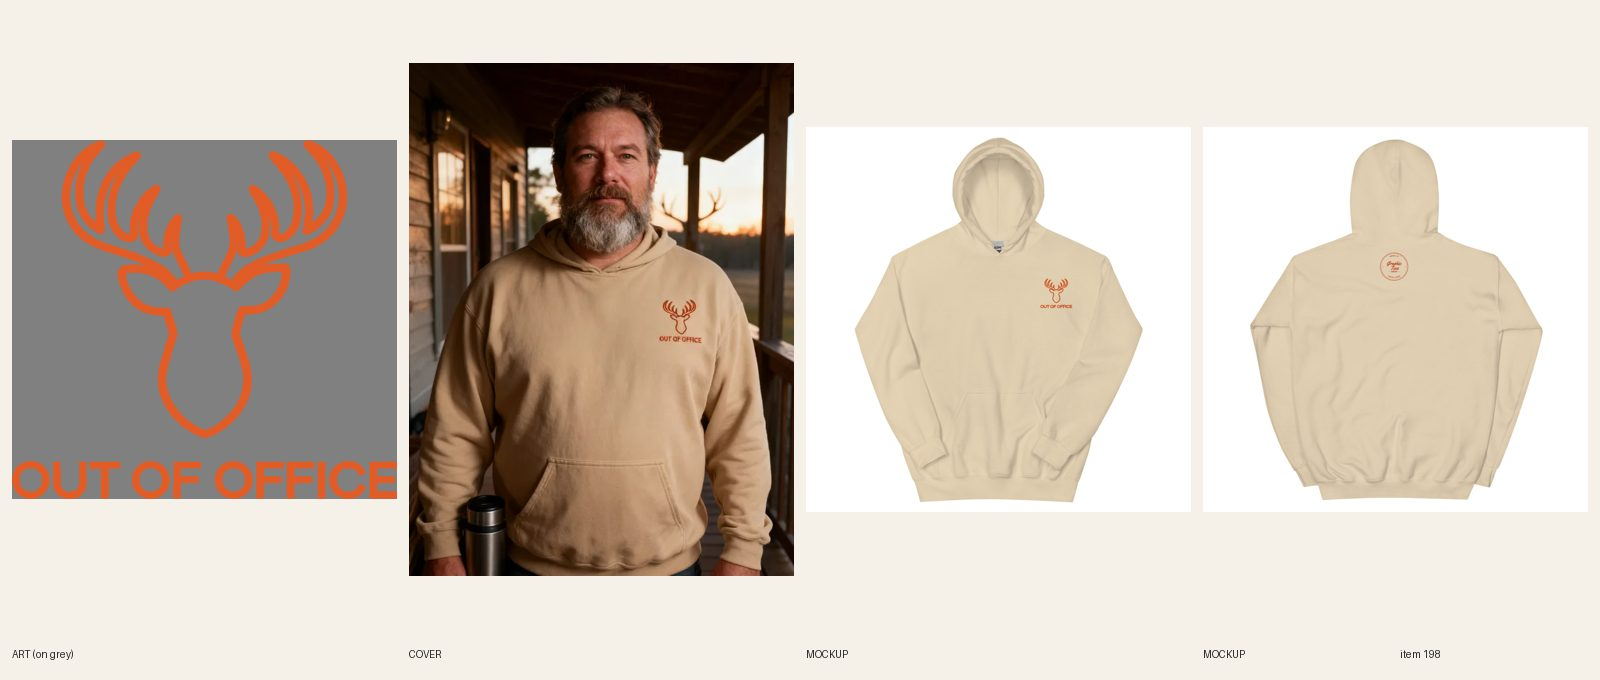
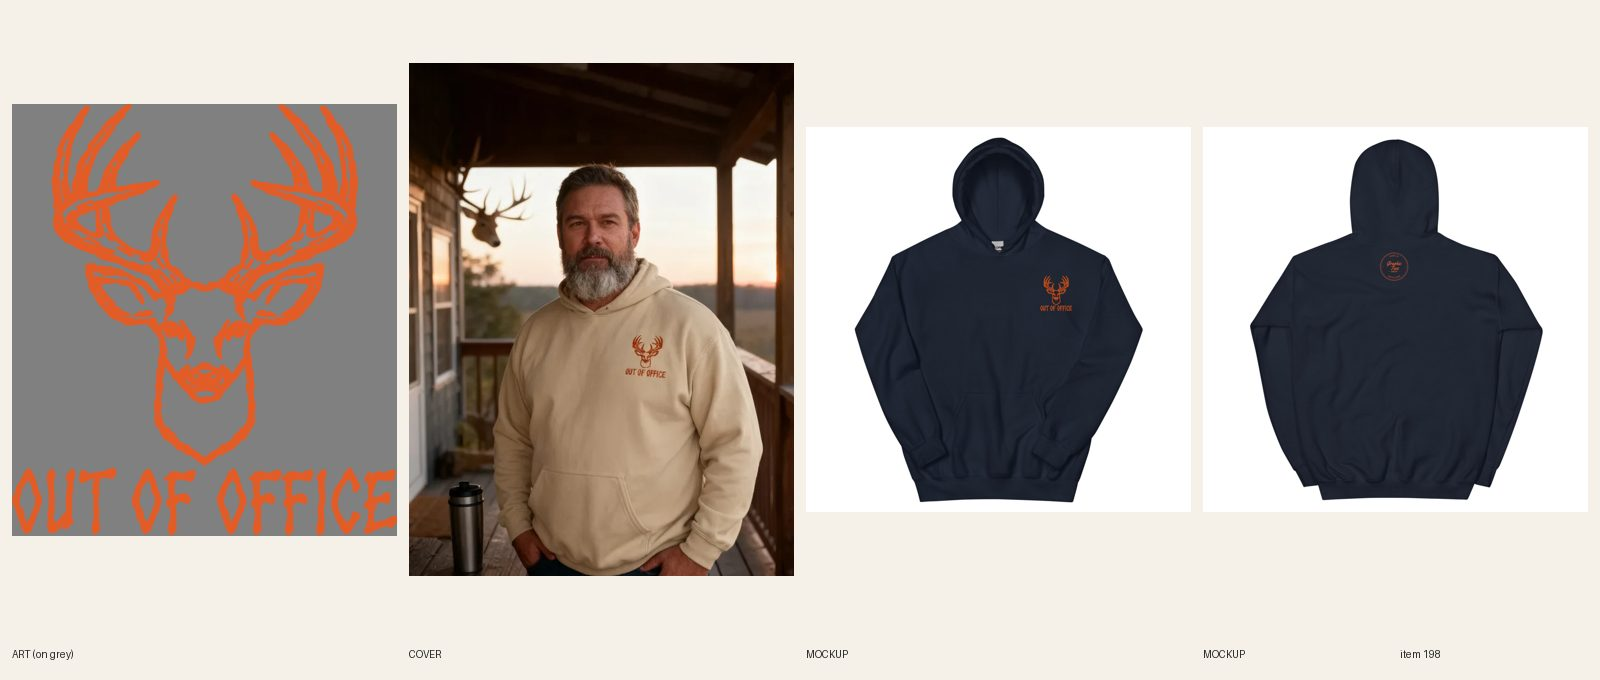
[B] redo 198 -> review
Claude-Session: https://claude.ai/code/session_01StmiBSKUktcpeqFzyhy7ya

diff --git a/docs/intake-log.md b/docs/intake-log.md
@@ -1,3 +1,4 @@
+2026-10-16 18:52 UTC — [B] REVIEW #198 (redo): hand-lettered redo: new rust deer art (Printful file 1087751323), 14 variants resynced, new cover and mockups
 2026-10-16 18:48 UTC — [B] REVIEW #185 (redo): cover only (R6.9 redo): generated from the Sand front mockup with 3 images per call; picked the one that shows the hood and the whole line I SURVIVED LEG DAY, hands in the pouch pocket (the other two images looked like crewnecks).
 2026-10-16 18:46 UTC — [B] REVIEW #178 (redo): cover only (R6.9 redo): generated from the Sport Grey BACK mockup with 3 images per call; plain cotton-fleece hood resting behind the neck, DEER DIARY and the buck fully readable, no zipper on the back.
 2026-10-16 18:44 UTC — [H] Helper run: Telegram inbox empty (getUpdates returned no messages, nothing to consume). Audit: 184 live products, 0 errors, 7 warnings (polish only, left alone); no price, SEO or collection errors to fix. Announcement bar already reads the holiday line (R12.3). Site freshness: #191 nutcracker bow hoodie, #190 highland cow hoodie, #184 clean plate club hoodie all return 200. Stuck check: none. Lane A last commit 18:30, lane B committed 18:41 (its RUNNING line is from 16:36 but the lane is active, so no alert). Daily summary already sent today (12:43). Lock released.

diff --git a/docs/pipeline/198-embroidered-mens-out-of-office-hoodie.md b/docs/pipeline/198-embroidered-mens-out-of-office-hoodie.md
@@ -1,4 +1,4 @@
-status: BUILDING [B] 2026-10-16
+status: REVIEW
 lane: B
 type: new
 id: 198
@@ -29,3 +29,4 @@ handle: mens-embroidered-out-of-office-deer-hoodie
   1. R3.7.6 (lettering): OUT OF OFFICE is set in a default bold sans font. Every joke line must be hand-drawn lettering. Redraw the words as hand-lettered block capitals or a rustic script (still one rust thread, embroidery-safe stroke weight), regeneration 1 of 2.
   2. R5.3.1 (Etsy page 1): the deer head reads like a stock icon outline. Give it a bit more character within thread limits: a slightly hand-drawn line with ear and antler tines clearly separated, still about 3.5 in on the left chest.
   3. Keep the blank, colors, thread, placement, price, cover scene and registry row; regenerate cover and mockups after the new file is synced. Update copy only if the description of the art changes.
+- 2026-10-16 18:52 UTC [B]: REDO done: hand-lettered redo: new rust deer art (Printful file 1087751323), 14 variants resynced, new cover and mockups Review sheet docs/review/198.jpg.
